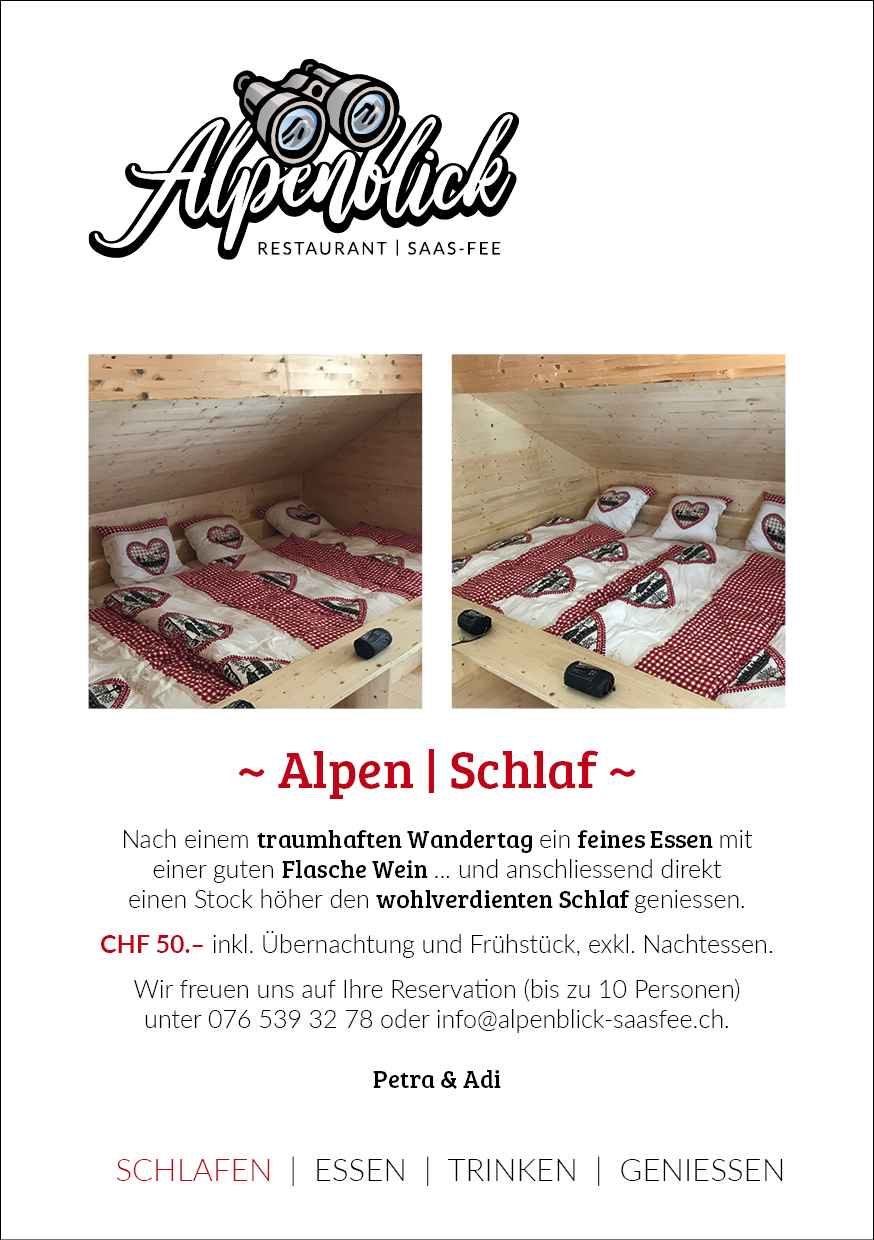
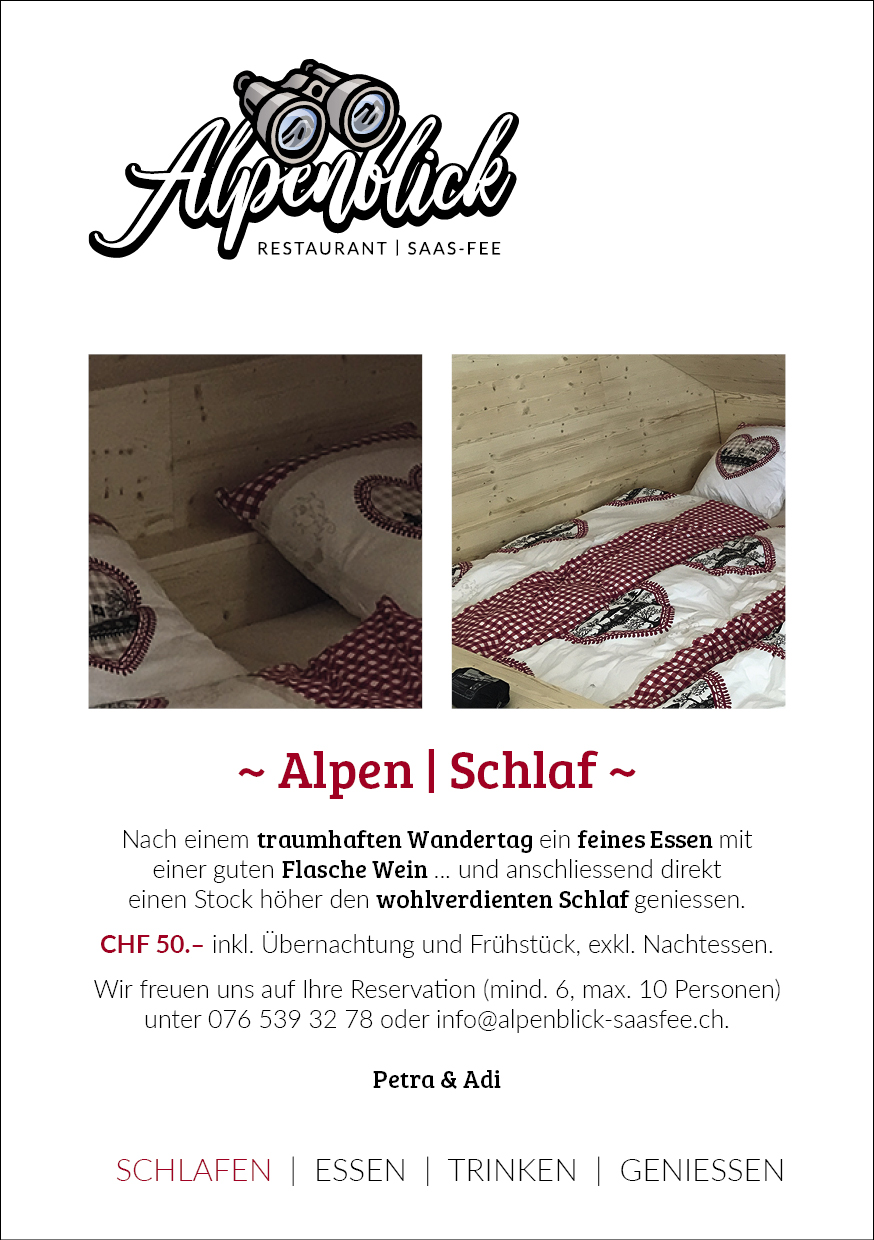
update homepage

diff --git a/index.html b/index.html
@@ -85,14 +85,14 @@ Normaler Text zwischen Linien<br>
 
 <hr />
 
-<p><strong>Sommersaison 2021</strong><br>
-Wir freuen uns sehr, Sie nach der Zwischensaison ab <strong>Donnerstag, 03. Juni 2021 (Fronleichnam)</strong> bei uns im Restaurant Alpenblick begrüssen und verwöhnen zu dürfen!</p>
+<!-- **Sommersaison 2021**<br>
+Wir freuen uns sehr, Sie nach der Zwischensaison ab **Donnerstag, 03. Juni 2021 (Fronleichnam)** bei uns im Restaurant Alpenblick begrüssen und verwöhnen zu dürfen!
 
-<!-- **Wintersaison 2020 / 2021 – Take-away**<br>
+**Wintersaison 2020 / 2021 – Take-away**<br>
 Wir freuen uns, Sie bis und mit Saisonende Sonntag, 18. April täglich (ausser dienstags) zwischen 11 und 15 Uhr wenigstens mit unserem <a href="images/Alpenblick_Take-away_Menukarte_A4_hoch_DE.jpg" target="_blank"> Take-away-Angebot</a> verwöhnen zu können. -->
 
 <p><strong>Essen | Trinken | Geniessen | ÜBERNACHTEN</strong><br>
-Unser kleines aber feines <a href="images/Alpenblick_Flyer_Uebernachten_2021.jpg" target="_blank">Massenlager</a> (bis 10 Personen) ist schlafbereit!</p>
+Unser kleines aber feines <a href="images/Alpenblick_Flyer_Uebernachten_2021.jpg" target="_blank">Massenlager</a> für Gruppen von mind. 6 und max. 10 Personen) ist schlafbereit!</p>
 
 <hr />
 
@@ -124,6 +124,7 @@ Unser kleines aber feines <a href="images/Alpenblick_Flyer_Uebernachten_2021.jpg
 <li>Jeden Freitag: <a href="images/Alpenblick_Flyer_Freitag_Abend_Menu_2020.jpg" target="_blank"> Freitag Abend Überraschungsmenu</a></li>
 <li>Donnerstag, 24. Juni 2021: <a href="images/Alpenblick_Flyer_Vollmond_Raclette_Plausch.jpg" target="_blank"> Vollmond Raclette Plausch</a></li>
 <li>Samstag, 24. Juli 2021: <a href="images/Alpenblick_Flyer_Vollmond_Raclette_Plausch.jpg" target="_blank"> Vollmond Raclette Plausch</a></li>
+<li>Sonntag, 1. August 2021: <a href="images/Alpenblick_Flyer_1_August_2021.jpg" target="_blank"> Schweizer Nationalfeiertag</a></li>
 <li>Sonntag, 8. August 2021: Ziegenfest Sass-Fee (Genaue Informationen folgen)</li>
 <li>Sonntag, 22. August 2021: <a href="images/Alpenblick_Flyer_Vollmond_Raclette_Plausch.jpg" target="_blank"> Vollmond Raclette Plausch</a></li>
 <li>Montag, 20. September 2021: <a href="images/Alpenblick_Flyer_Vollmond_Raclette_Plausch.jpg" target="_blank"> Vollmond Raclette Plausch</a></li>
